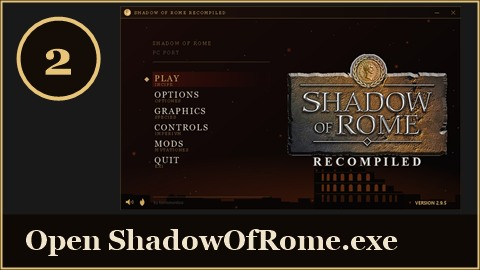
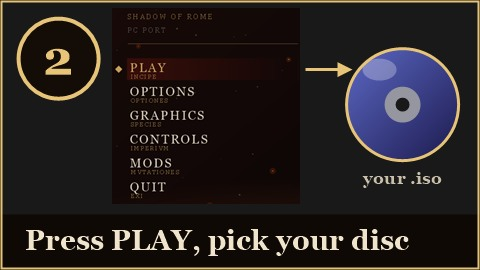
README: steps 2 and 3 (PLAY and the disc, then the game), minimum requirements under the steps

diff --git a/README.md b/README.md
@@ -179,10 +179,12 @@ New pictures from 2.9.5, drawn by the video card at 8x in 21:9:
 <table>
 <tr>
 <td align="center" width="33%"><img src="docs/look/step-1.jpg" width="100%" alt="Step 1: unzip the package"></td>
-<td align="center" width="33%"><img src="docs/look/step-2.jpg" width="100%" alt="Step 2: open ShadowOfRome.exe"></td>
-<td align="center" width="33%"><img src="docs/look/step-3.jpg" width="100%" alt="Step 3: PLAY and pick your own disc"></td>
+<td align="center" width="33%"><img src="docs/look/step-2.jpg" width="100%" alt="Step 2: press PLAY and pick your own disc"></td>
+<td align="center" width="33%"><img src="docs/look/step-3.jpg" width="100%" alt="Step 3: play the game"></td>
 </tr>
 </table>
+
+<p align="center"><b>Minimum requirements:</b> Windows 10 or 11, 64-bit &middot; a processor with SSE4.1 (nearly every PC since about 2009) &middot; a video card with DirectX 11 or newer &middot; the <a href="https://learn.microsoft.com/cpp/windows/latest-supported-vc-redist">Microsoft Visual C++ Redistributable</a> (x64) &middot; your own <code>.iso</code> of the game.<br><sub>Tested on one PC only: if it does not start on yours, please <a href="../../issues">open an issue</a>.</sub></p>
 
 ## How to get it running
 
